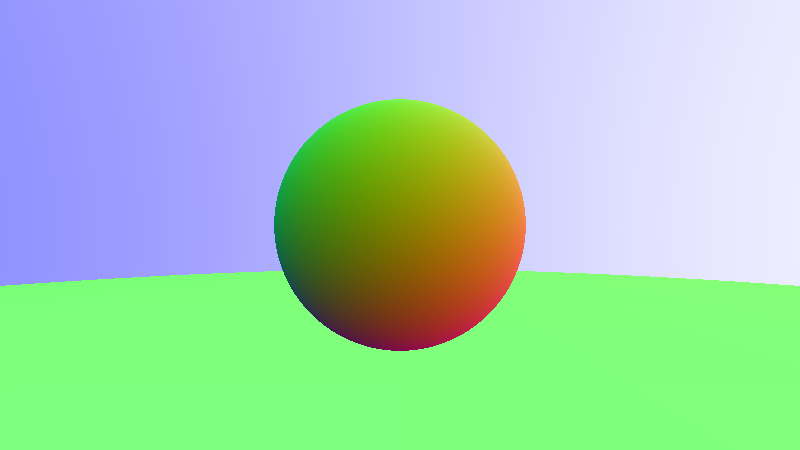
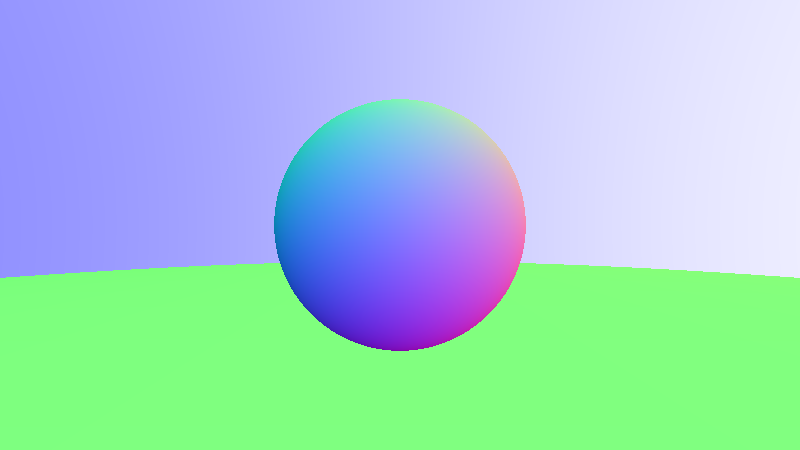
made interval class

Changed region(s): [[0.0, 0.2178, 1.0, 0.7778]]

diff --git a/lib/sphere.h b/lib/sphere.h
@@ -4,12 +4,13 @@
 
 #ifndef SPHERE_H
 #define SPHERE_H
+#include "commons.h"
 #include "hittable.h"
 #include "ray.h"
 class sphere : public hittable{
 public:
     sphere(point3 center, double radius) : center(center), radius(radius){}
-    bool hit(ray &r, double t_min, double t_max, hit_record &h) const override {
+    bool hit(ray &r, interval ray_i, hit_record &h) const override {
         auto oc = r.get_start() - center;
         auto a = dot(r.get_direction(),r.get_direction());
         auto b = 2*dot(r.get_direction(),oc);
@@ -23,9 +24,9 @@ public:
         auto r2 = (-b + sqrt(delta))/2*a;
         auto root = r1;
 
-        if (r1 > t_max || r1 < t_min){
+        if (!ray_i.surrounds(r1)){
             root = r2;
-            if (r2 > t_max || r2 < t_min)
+            if (!ray_i.surrounds(r2))
                 return false;
         }
 

diff --git a/lib/interval.h b/lib/interval.h
@@ -1,0 +1,34 @@
+//
+// Created by sinat on 2/16/2024.
+//
+
+#ifndef INTERVAL_H
+#define INTERVAL_H
+#include <limits>
+
+class interval{
+public:
+    double min,max;
+    interval() : min(std::numeric_limits<double>::infinity()) ,
+                 max(-std::numeric_limits<double>::infinity())
+                 {};
+
+    interval(double min, double max) : min(min),
+                                       max(max)
+                                       {};
+
+    bool contains(double a) const{
+        return a >= min && a <= max;
+    }
+
+    bool surrounds(double a) const{
+        return a > min && a < max;
+    }
+
+    static const interval empty, universe;
+};
+
+const static interval empty();
+const static interval universe(-std::numeric_limits<double>::infinity(),std::numeric_limits<double>::infinity());
+
+#endif //INTERVAL_H

diff --git a/lib/hittable_list.h b/lib/hittable_list.h
@@ -5,6 +5,7 @@
 #ifndef HITTABLE_LIST_H
 #define HITTABLE_LIST_H
 
+#include "commons.h"
 #include "hittable.h"
 
 #include "memory"
@@ -31,13 +32,13 @@ public:
     }
 
 
-    bool hit(ray &r, double t_min, double t_max, hit_record &h) const override{
+    bool hit(ray &r, interval ray_i, hit_record &h) const override{
         hit_record tmp_h;
         bool hit_anything = false;
-        auto closest_so_far = t_max;
+        auto closest_so_far = ray_i.max;
 
         for (const auto& object : objects){
-            if (object->hit(r,t_min,closest_so_far,tmp_h)){
+            if (object->hit(r,interval(ray_i.min,closest_so_far),tmp_h)){
                 hit_anything = true;
                 closest_so_far = tmp_h.t;
                 h = tmp_h;

diff --git a/main.cpp b/main.cpp
@@ -15,7 +15,7 @@ using namespace std;
 color ray_color(ray& r, const hittable& world)
 {
     hit_record h;
-    if (world.hit(r,-2,10000,h))
+    if (world.hit(r,interval(-2,infinity),h))
     {
         return 0.5*(h.normal+color(1,1,1));
     }
@@ -48,8 +48,8 @@ int main() {
 
     //object creation on scene
     hittable_list world;
-    world.add(make_shared<sphere>(point3(0,0,1), 0.3));
-    world.add(make_shared<sphere>(point3(0,-100.5,1), 100));
+    world.add(make_shared<sphere>(point3(0,0,-1), 0.3));
+    world.add(make_shared<sphere>(point3(0,-100.5,-1), 100));
 
 
 

diff --git a/lib/hittable.h b/lib/hittable.h
@@ -4,7 +4,7 @@
 
 #ifndef HITTABLE_H
 #define HITTABLE_H
-#include "ray.h"
+#include "commons.h"
 class hit_record{
 public:
     point3 hp;
@@ -20,6 +20,6 @@ public:
 class hittable{
 public:
     virtual ~hittable() = default;
-    virtual bool hit (ray& r, double t_min, double t_max,hit_record& h) const = 0;
+    virtual bool hit (ray& r, interval ray_i, hit_record& h) const = 0;
 };
 #endif //HITTABLE_H

diff --git a/lib/commons.h b/lib/commons.h
@@ -7,7 +7,7 @@
 #include <cmath>
 #include <limits>
 #include <memory>
-
+#include "interval.h"
 // Usings
 using std::shared_ptr;
 using std::make_shared;
